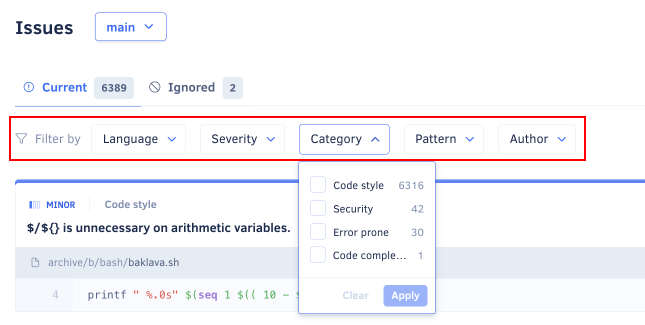
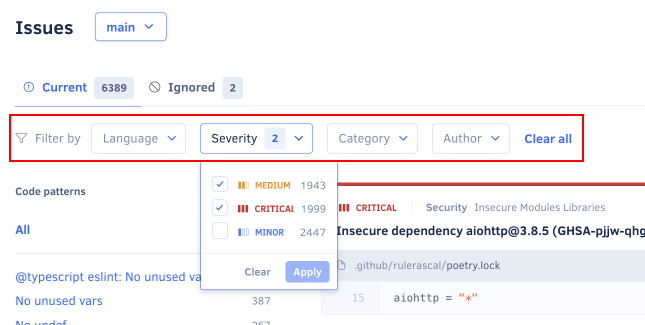
feat: Document updated issue navigation ALA-1151 (#2169)
* feat: Update images

* feat: Update copy

* feat: Update screenshots

* feat: Tweak copy

* feat: Tweak copy

diff --git a/docs/repositories/issues.md b/docs/repositories/issues.md
@@ -10,7 +10,7 @@ By default, the page lists the issues on the main branch of your repository but 
 ![Issues page](images/issues.png)
 
 <!--issue-details-start-->
-Click the title of an issue to see the following information:
+Click the title of an issue card to expand it and see the following information:
 
 -   The committer and date of the commit that introduced the issue, if available
 -   The estimated time to fix the issue
@@ -22,11 +22,13 @@ Click the title of an issue to see the following information:
 
 ## Filtering issues
 
-Filter the list of issues to find specific issues, such as the issues with the highest severity or security issues:
+Filter the list of issues to find specific issues, such as the issues with the highest severity or security issues.
+
+The list of code patterns with issues is always visible on the left side of the page. Click a [code pattern](../repositories-configure/configuring-code-patterns.md) to filter the list of issues by that pattern.
 
 ![Filtering issues](images/issues-filter.png)
 
-You can define one or more of the following filters:
+You can moreover define one or more of the following filters:
 
 -   **Language:** Programming language of the file where the issues were detected
 
@@ -43,8 +45,6 @@ You can define one or more of the following filters:
         start="<!--issue-categories-start-->"
         end="<!--issue-categories-end-->"
     %}
-
--   **Pattern:** [Code pattern](../repositories-configure/configuring-code-patterns.md) that detected the issue
 
 -   **Author:** Commit author that introduced the issue on the code
 
